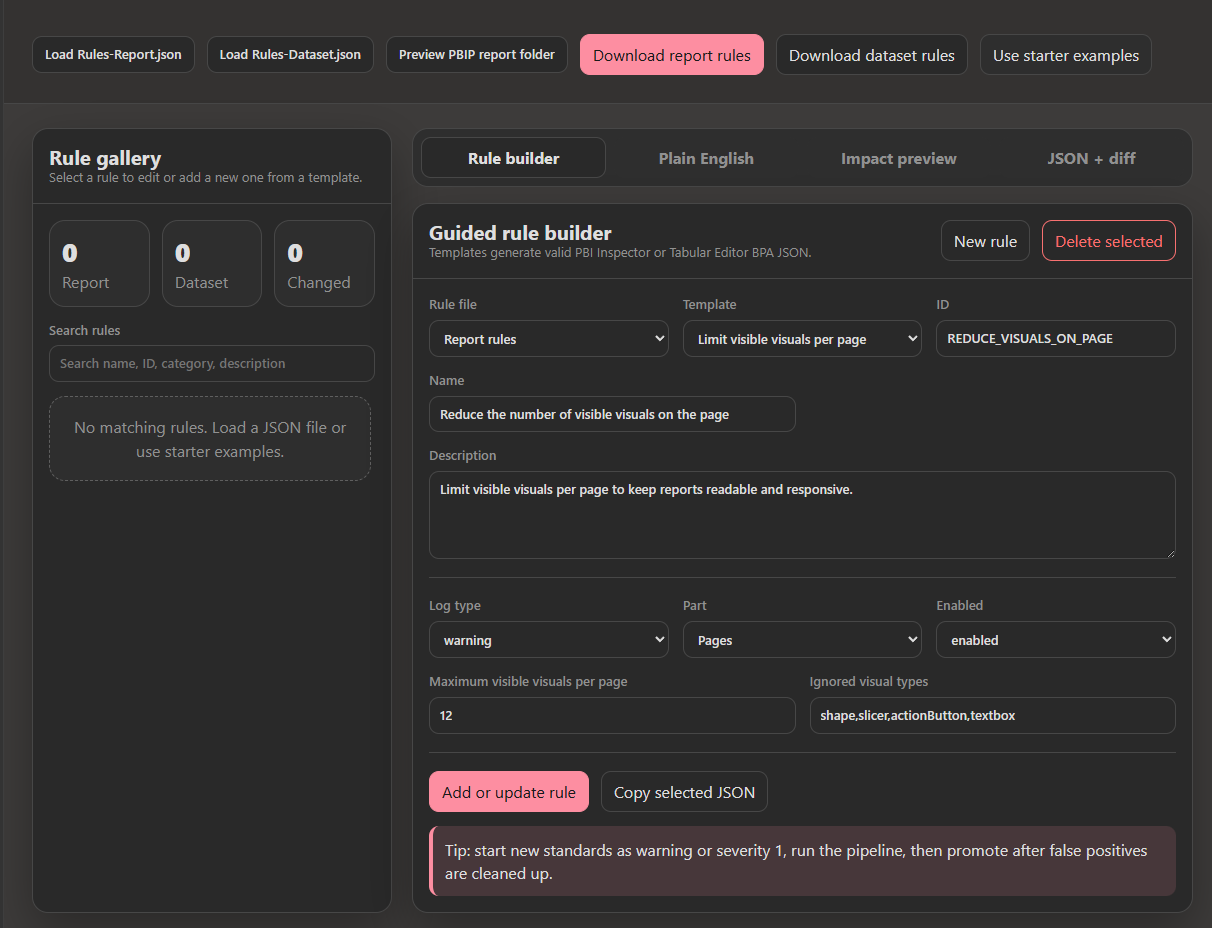
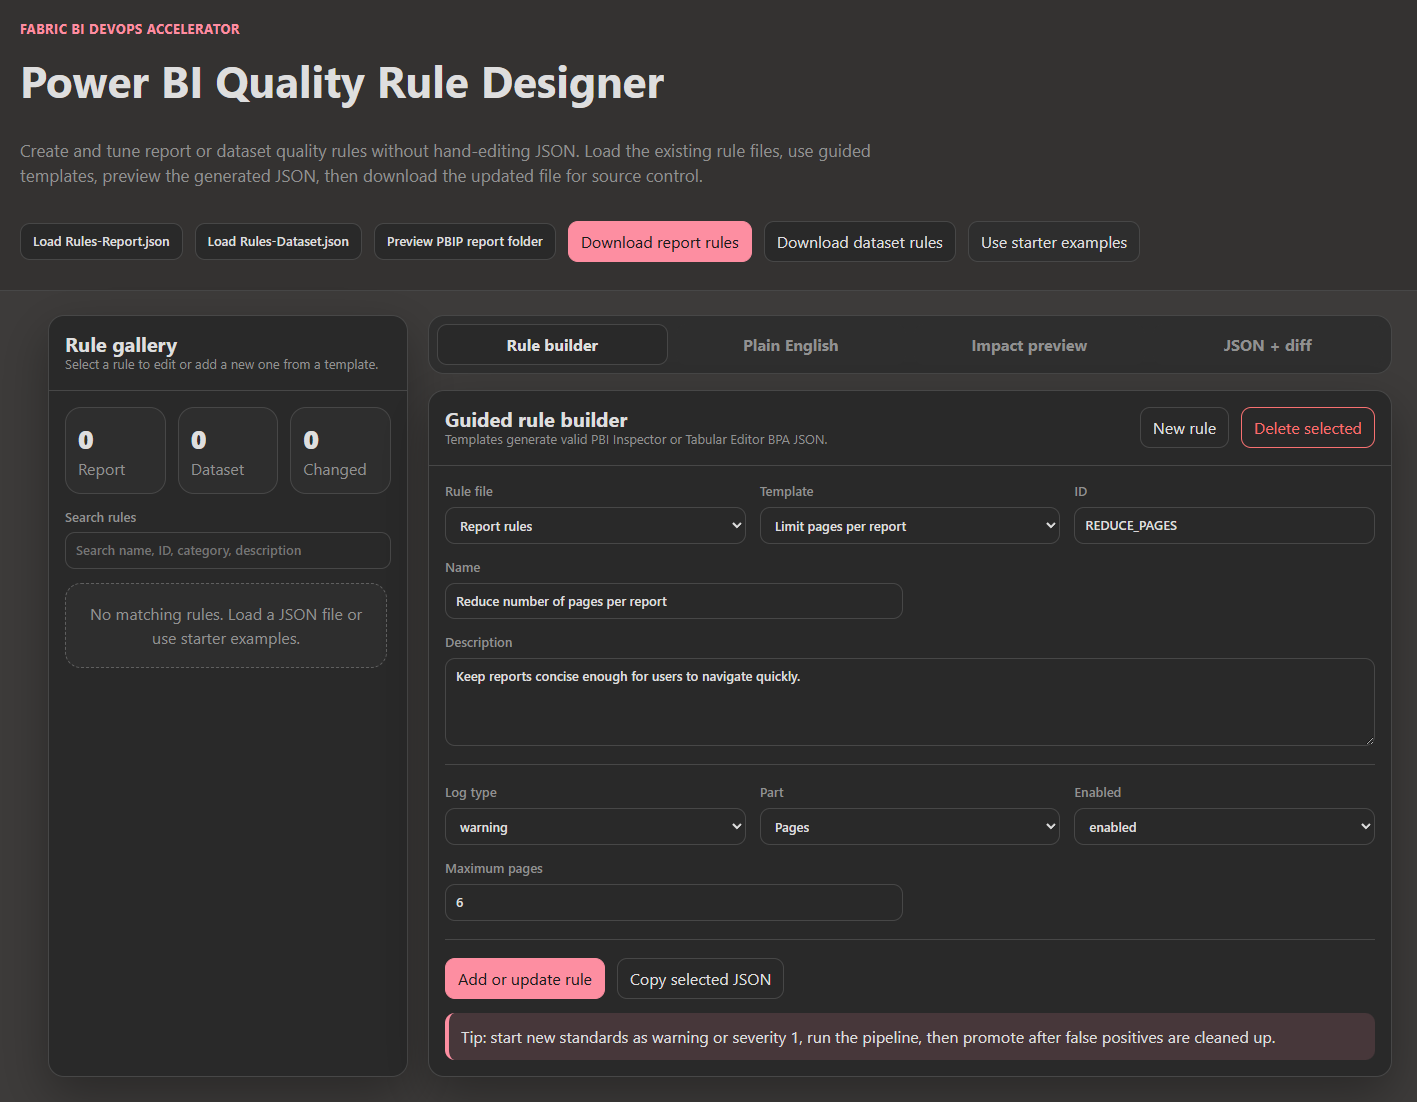
updated documentation

diff --git a/docs/governance/power-bi-governance-tools.md b/docs/governance/power-bi-governance-tools.md
@@ -16,8 +16,9 @@ Enterprise Power BI quality standards often fail when they live only in document
 
 - `shared/Rules-Report.json` for PBI Inspector report checks
 - `shared/Rules-Dataset.json` for Tabular Editor BPA dataset checks
+- `shared/dax-tests.json` for measure-level DAX validation scenarios consumed by the DAX test runner
 
-The result is a governance workflow that is easier to explain, easier to adopt, and easier to enforce through Git-based delivery.
+The result is a governance workflow that is easier to explain, easier to adopt, and easier to enforce through Git-based delivery across report checks, semantic model checks, and DAX test coverage.
 
 ## Tool Overview
 
@@ -26,6 +27,8 @@ Start from the central launchpad:
 ```text
 tools/index.html
 ```
+
+![Fabric BI DevOps Accelerator Launchpad](../../images/fabric-bi-devops-accelerator-launchpad.png)
 
 | Tool | Primary Audience | Use Case | Output |
 |---|---|---|---|
@@ -105,6 +108,8 @@ tools/dax-test-builder/index.html
 ```
 
 The DAX Test Builder captures measure-level validation scenarios in a structured `dax-tests.json` file. A starter catalog is available at `shared/dax-tests.json` with generally accepted DAX test patterns such as non-blank critical measures, non-negative totals, percentage ranges, reconciliation checks, time-intelligence sanity checks, and no-data slice behavior. The repository DAX runner reads this catalog, validates enabled test metadata, and emits JUnit results. Actual DAX query execution is still represented as skipped until semantic-link-labs, XMLA, or Tabular Editor scripting is wired in.
+
+![DAX Test Builder](../../images/dax-test-builder.png)
 
 The starter tests are disabled by default because every semantic model has different measure names, table names, filter contexts, and expected values. Teams should customize and enable them as part of model onboarding.
 